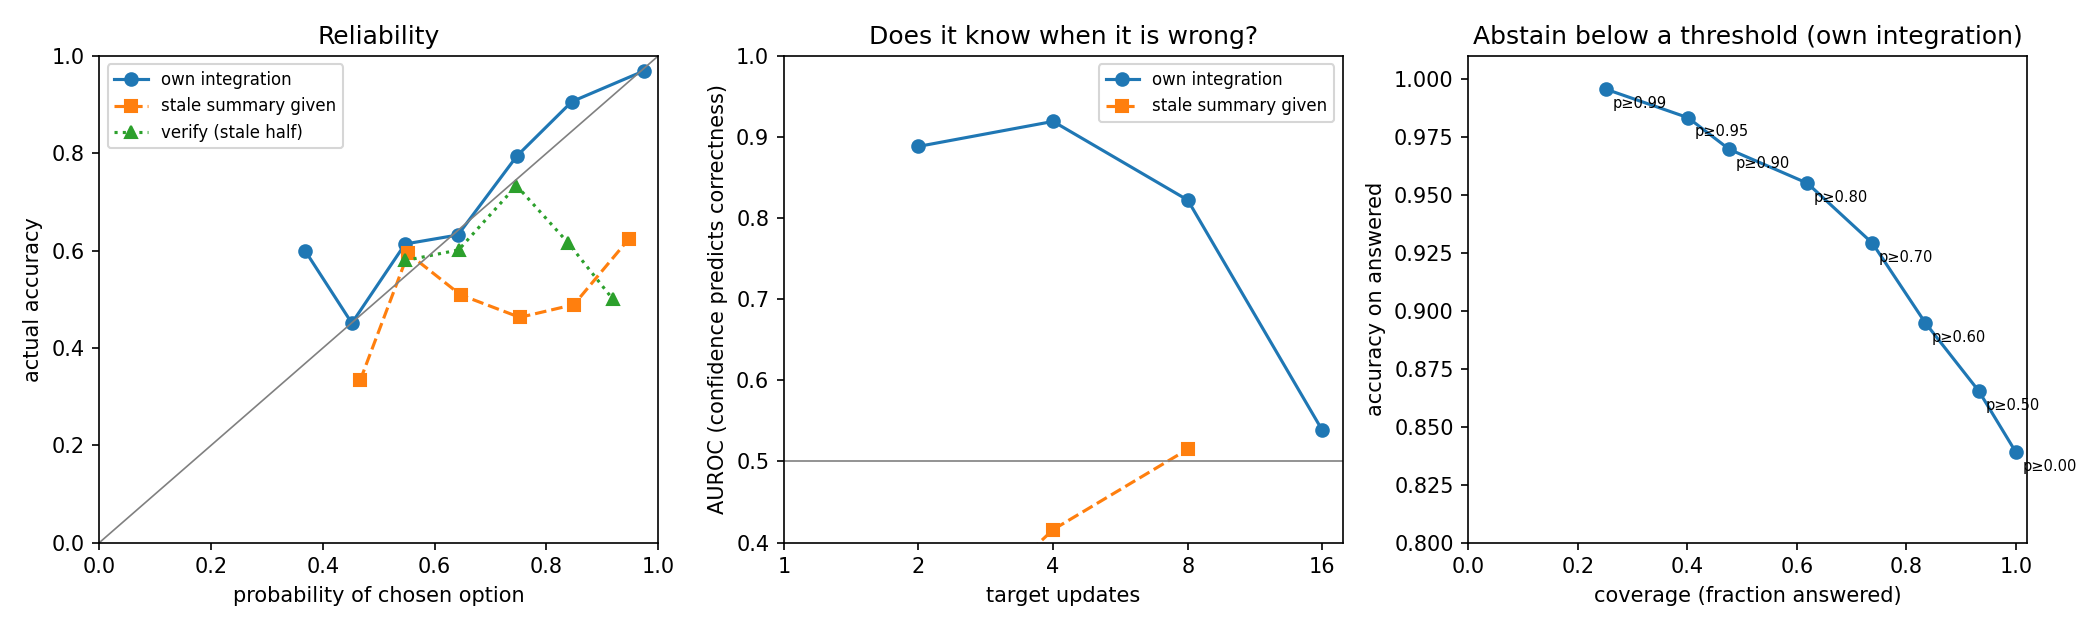
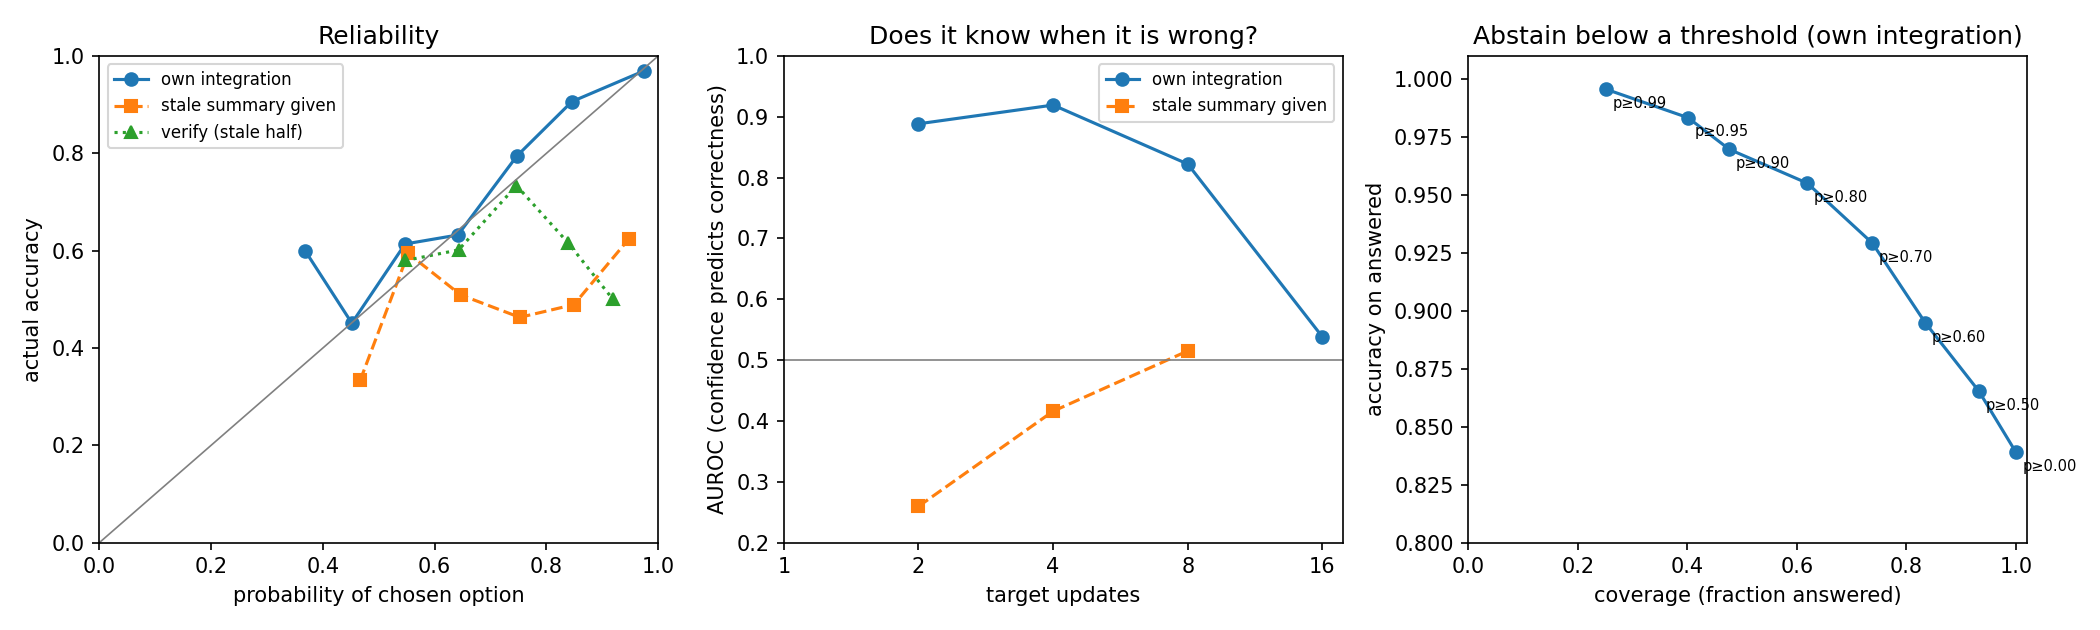
calibration figure: show the k=2 stale-summary AUROC (0.26)

diff --git a/test/calibration.py b/test/calibration.py
@@ -108,7 +108,7 @@ def main():
     ax.plot(ks, [auroc(fs[fs.k == k].correct, fs[fs.k == k].p_chosen) for k in ks], "o-", label="own integration")
     ax.plot(ks, [auroc(stale[stale.k == k].correct, stale[stale.k == k].p_chosen) for k in ks], "s--", label="stale summary given")
     ax.axhline(0.5, color="gray", lw=0.8); ax.set_xscale("log", base=2); ax.set_xticks(ks, [str(k) for k in ks])
-    ax.set_xlabel("target updates"); ax.set_ylabel("AUROC (confidence predicts correctness)"); ax.set_ylim(0.4, 1); ax.set_title("Does it know when it is wrong?"); ax.legend(fontsize=8)
+    ax.set_xlabel("target updates"); ax.set_ylabel("AUROC (confidence predicts correctness)"); ax.set_ylim(0.2, 1); ax.set_title("Does it know when it is wrong?"); ax.legend(fontsize=8)
     # selective accuracy
     ax = axes[2]
     ax.plot(sel.coverage, sel.accuracy, "o-")
